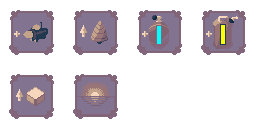
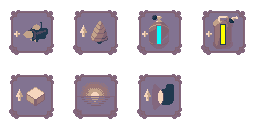
Light upgrade, misc shop tweaks

Changed region(s): [[0.5312, 0.5625, 0.7188, 0.9375]]

diff --git a/app/ts/shop.ts b/app/ts/shop.ts
@@ -1,4 +1,5 @@
 import { SoundAsset, SpriteAsset } from "./assets.js"
+import { background } from "./background.js"
 import { GAME_HEIGHT, PLAY_AREA_HEIGHT, PLAY_AREA_WIDTH } from "./constants.js"
 import { Entity } from "./entity.js"
 import { ACTIONS } from "./input.js"
@@ -9,7 +10,7 @@ import { OreType } from "./tilemap.js"
 const SHOP_OPEN_DISTANCE = 64 // pixels
 
 const REPAIR_COST = 5
-const UPGRADES_PER_ROW = 3
+const UPGRADES_PER_ROW = 4
 
 const ORE_SELL_PRICES: Record<OreType, number> = {
     [OreType.empty]: 0,
@@ -35,6 +36,7 @@ const SHOP_ITEMS: ShopItem[] = [
     { name: "Extra Oxygen Tank", price: 50, onPurchase: () => (sub.oxygenTanks++, sub.oxygen++), stock: 1, frame: 2 },
     { name: "Extra Fuel Tank", price: 30, onPurchase: () => (sub.fuelTanks++, sub.fuel++), stock: 1, frame: 3 },
     { name: "Expand Cargo (+4)", price: 40, onPurchase: () => sub.inventorySize += 4, stock: 3, frame: 4 },
+    { name: "Increase Light Power", price: 35, onPurchase: () => background.lightPower += 0.25, stock: 4, frame: 6 },
     { name: "Pay Quota", price: 1000, onPurchase: () => sub.state = 'victory', stock: 1, frame: 5 },
 ]
 
@@ -184,8 +186,8 @@ export class Shop extends Entity {
         ctx.fillText(`Sell Cargo (+$${totalSellPrice})`, menuX + 32, rowY)
         rowY += 32
         ctx.fillStyle = '#FFF'
-        if (sub.health >= sub.maxHealth) ctx.fillStyle = '#AAA'
-        ctx.fillText('Repair Hull ($5)', menuX + 32, rowY)
+        if (sub.health >= sub.maxHealth && this.money > REPAIR_COST) ctx.fillStyle = '#AAA'
+        ctx.fillText(`Repair Hull ($${REPAIR_COST})`, menuX + 32, rowY)
         rowY += 32
         ctx.fillStyle = '#FFF'
         ctx.fillText('Exit', menuX + 32, rowY)

diff --git a/app/ts/background.ts b/app/ts/background.ts
@@ -2,12 +2,13 @@ import { camera } from "./camera.js"
 import { PLAY_AREA_HEIGHT, PLAY_AREA_WIDTH } from "./constants.js"
 import { Entity } from "./entity.js"
 
-const LIGHT_FALLOFF_DISTANCE = 256
+const LIGHT_FALLOFF_DISTANCE = 128
 
 export class Background extends Entity {
+    public lightPower: number = 1
 
     reset(): void {
-
+        this.lightPower = 1
     }
 
     update(dt: number): void {
@@ -26,7 +27,7 @@ export class Background extends Entity {
     }
 
     override renderLights(ctx: OffscreenCanvasRenderingContext2D): void {
-        const baseBrightness = 0xF - Math.min(0xF, Math.floor(camera.y / LIGHT_FALLOFF_DISTANCE))
+        const baseBrightness = 0xF - Math.min(0xF, Math.floor(camera.y / this.lightPower / LIGHT_FALLOFF_DISTANCE))
         const l = baseBrightness.toString(16)
 
         ctx.fillStyle = `#${l}${l}${l}`

diff --git a/app/ts/hud.ts b/app/ts/hud.ts
@@ -2,6 +2,7 @@ import { SpriteAsset } from "./assets.js"
 import { GAME_HEIGHT, GAME_WIDTH, HUD_WIDTH } from "./constants.js"
 import { getAverageFPS } from "./engine.js"
 import { Entity } from "./entity.js"
+import { shop } from "./shop.js"
 import { sub } from "./sub.js"
 
 const healthIconSprite = new SpriteAsset('images/HealthSub.png', 32, 32)
@@ -89,6 +90,9 @@ export class HUD extends Entity {
         ctx.font = '12px Arbutus'
         ctx.fillText('LONGITUDE', hudX + HUD_WIDTH / 2, rowY)
         ctx.font = '16px Arbutus'
+        rowY += 32
+
+        ctx.fillText(`Money: $${shop.money}`, hudX + HUD_WIDTH / 2, rowY)
         rowY += 32
 
         if (sub.inventory.length === sub.inventorySize) {

diff --git a/app/ts/sub.ts b/app/ts/sub.ts
@@ -16,14 +16,14 @@ const DRAG_FACTOR = 0.95
 const COLLISION_SIZE = 24
 const DRILL_SIZE = 28
 const OXYGEN_DRAIN_RATE = 1 / 60 // 2 minutes
-const OXYGEN_REFILL_RATE = 1 / 5 // 5 seconds
+const OXYGEN_REFILL_RATE = 1 / 1 // 1 second
 const HURT_INVULN_TIME = 1.0
 const EXPLOSION_TIME = 1 // seconds
 const EXPLOSION_RADIUS = 128 // pixels
 const TURN_SPEED = Math.PI // radians per second
 const MINING_FUEL_DRAIN_RATE = 1 / 15 // 15 seconds
 const REFUEL_MAX_DIST = 64
-const REFUEL_RATE = 1 / 10 // 10 seconds to refuel
+const REFUEL_RATE = 1 / 1 // 1 second
 const INITIAL_INVENTORY_SIZE = 8
 const INITIAL_MAX_HEALTH = 3
 
